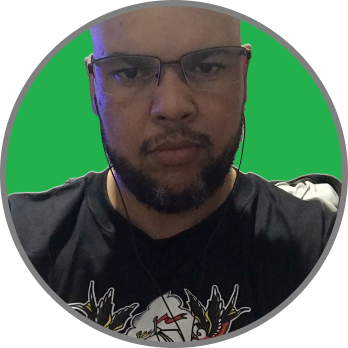
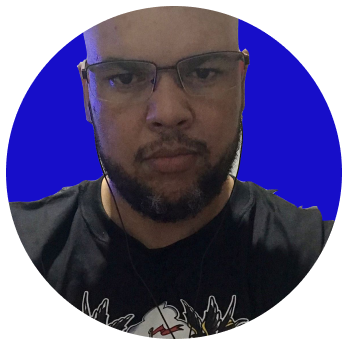
adjust img profile

diff --git a/index.html b/index.html
@@ -16,7 +16,7 @@
     <script src="./js/scripts.js"></script>
     <div id="container">
         <div id="profile">
-            <img src="./img/Avataur.png" alt="foto do rodrigo, usando oculos, blusa cinza e barba" />
+            <img src="./img/Avatar.png" alt="foto do rodrigo, usando oculos, blusa cinza e barba" />
             <p>Rodrigo Argentão</p>
         </div>
         <div id="switch" onclick="toggleMode()">

diff --git a/js/scripts.js b/js/scripts.js
@@ -10,7 +10,7 @@ function toggleMode() {
     
     )
   } else {
-    img.setAttribute("src", "./img/Avataur.png")
+    img.setAttribute("src", "./img/Avatar2.png")
     img.setAttribute(
       "alt",
       "foto do rodrigo, usando oculos, blusa cinza e barba"
